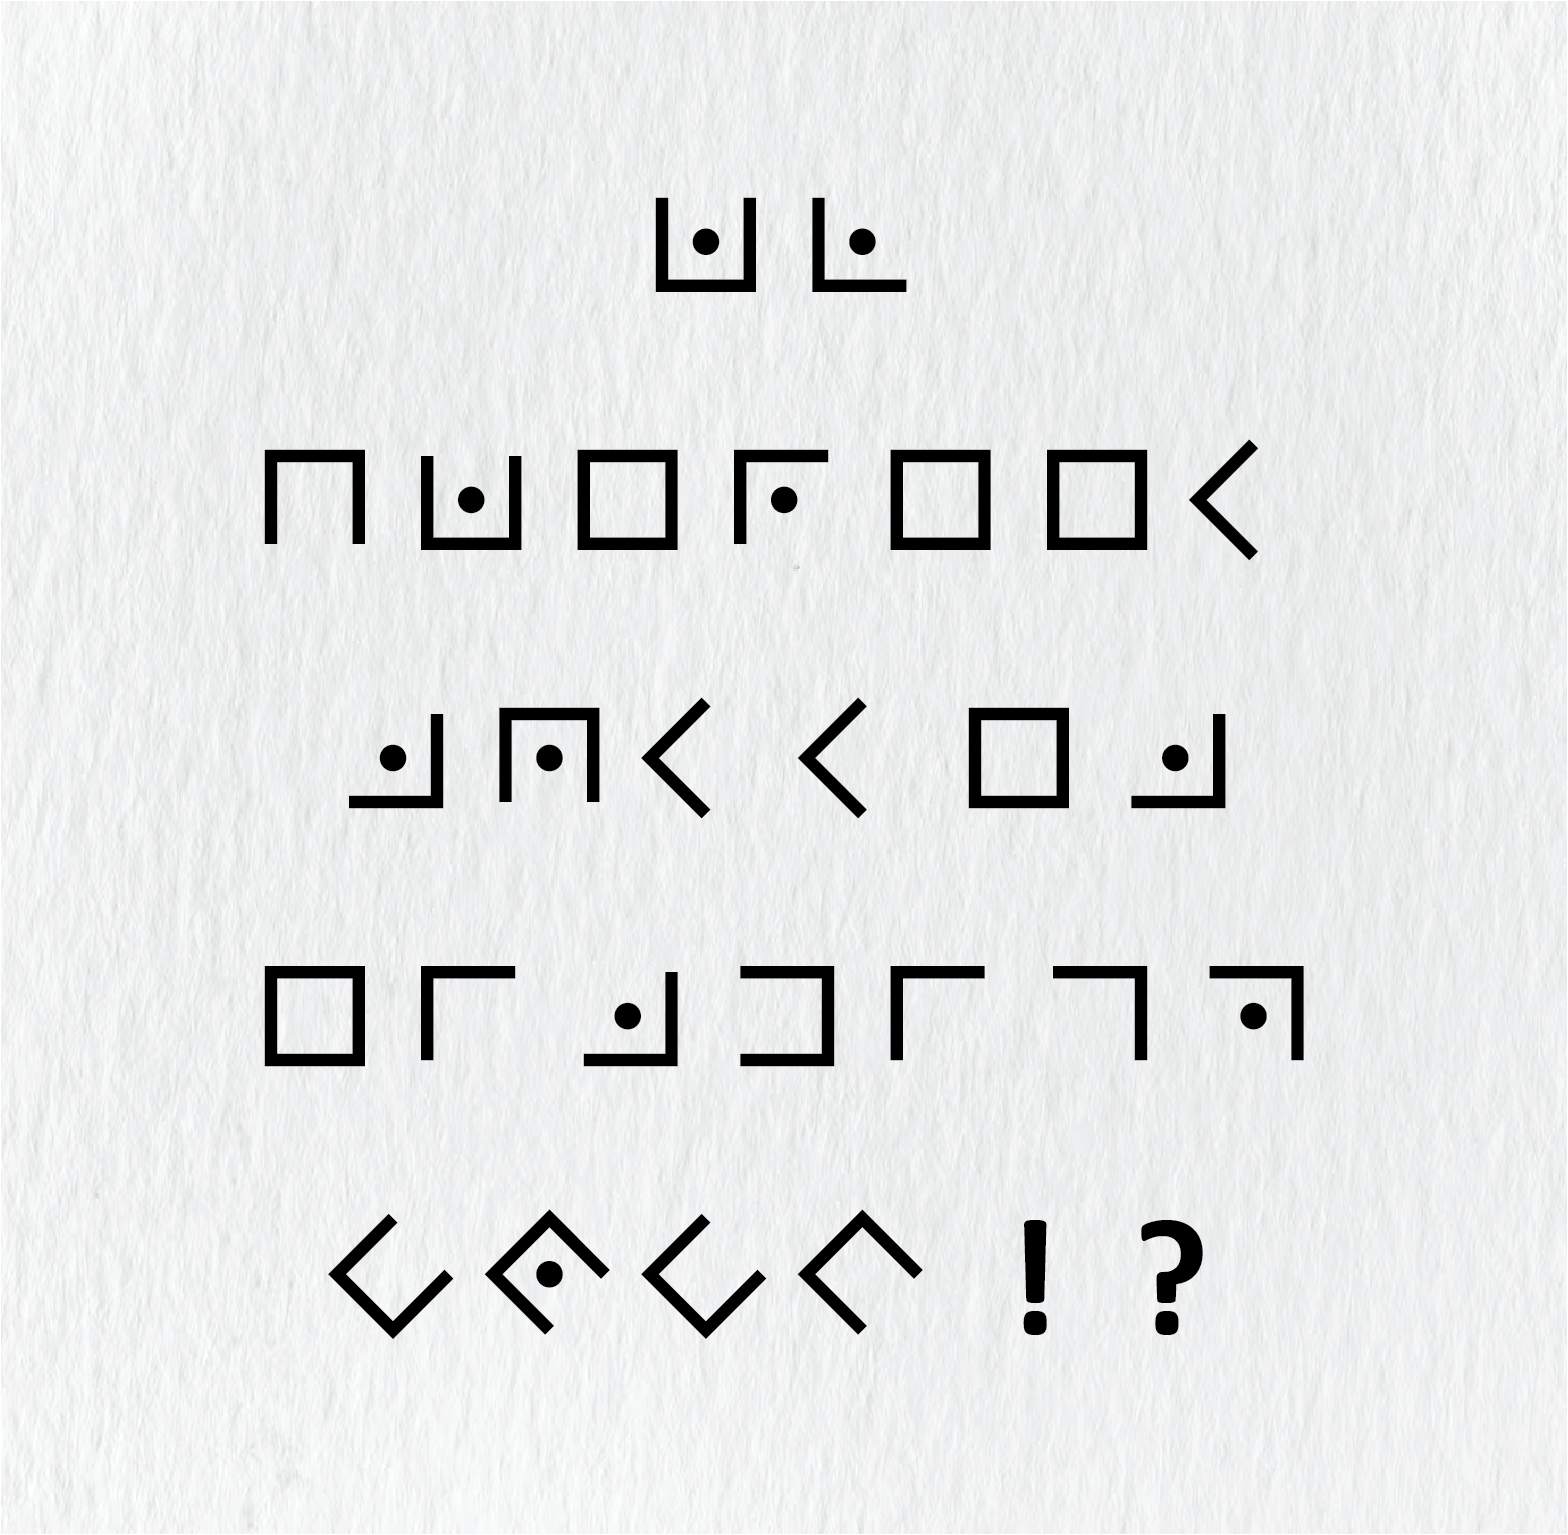
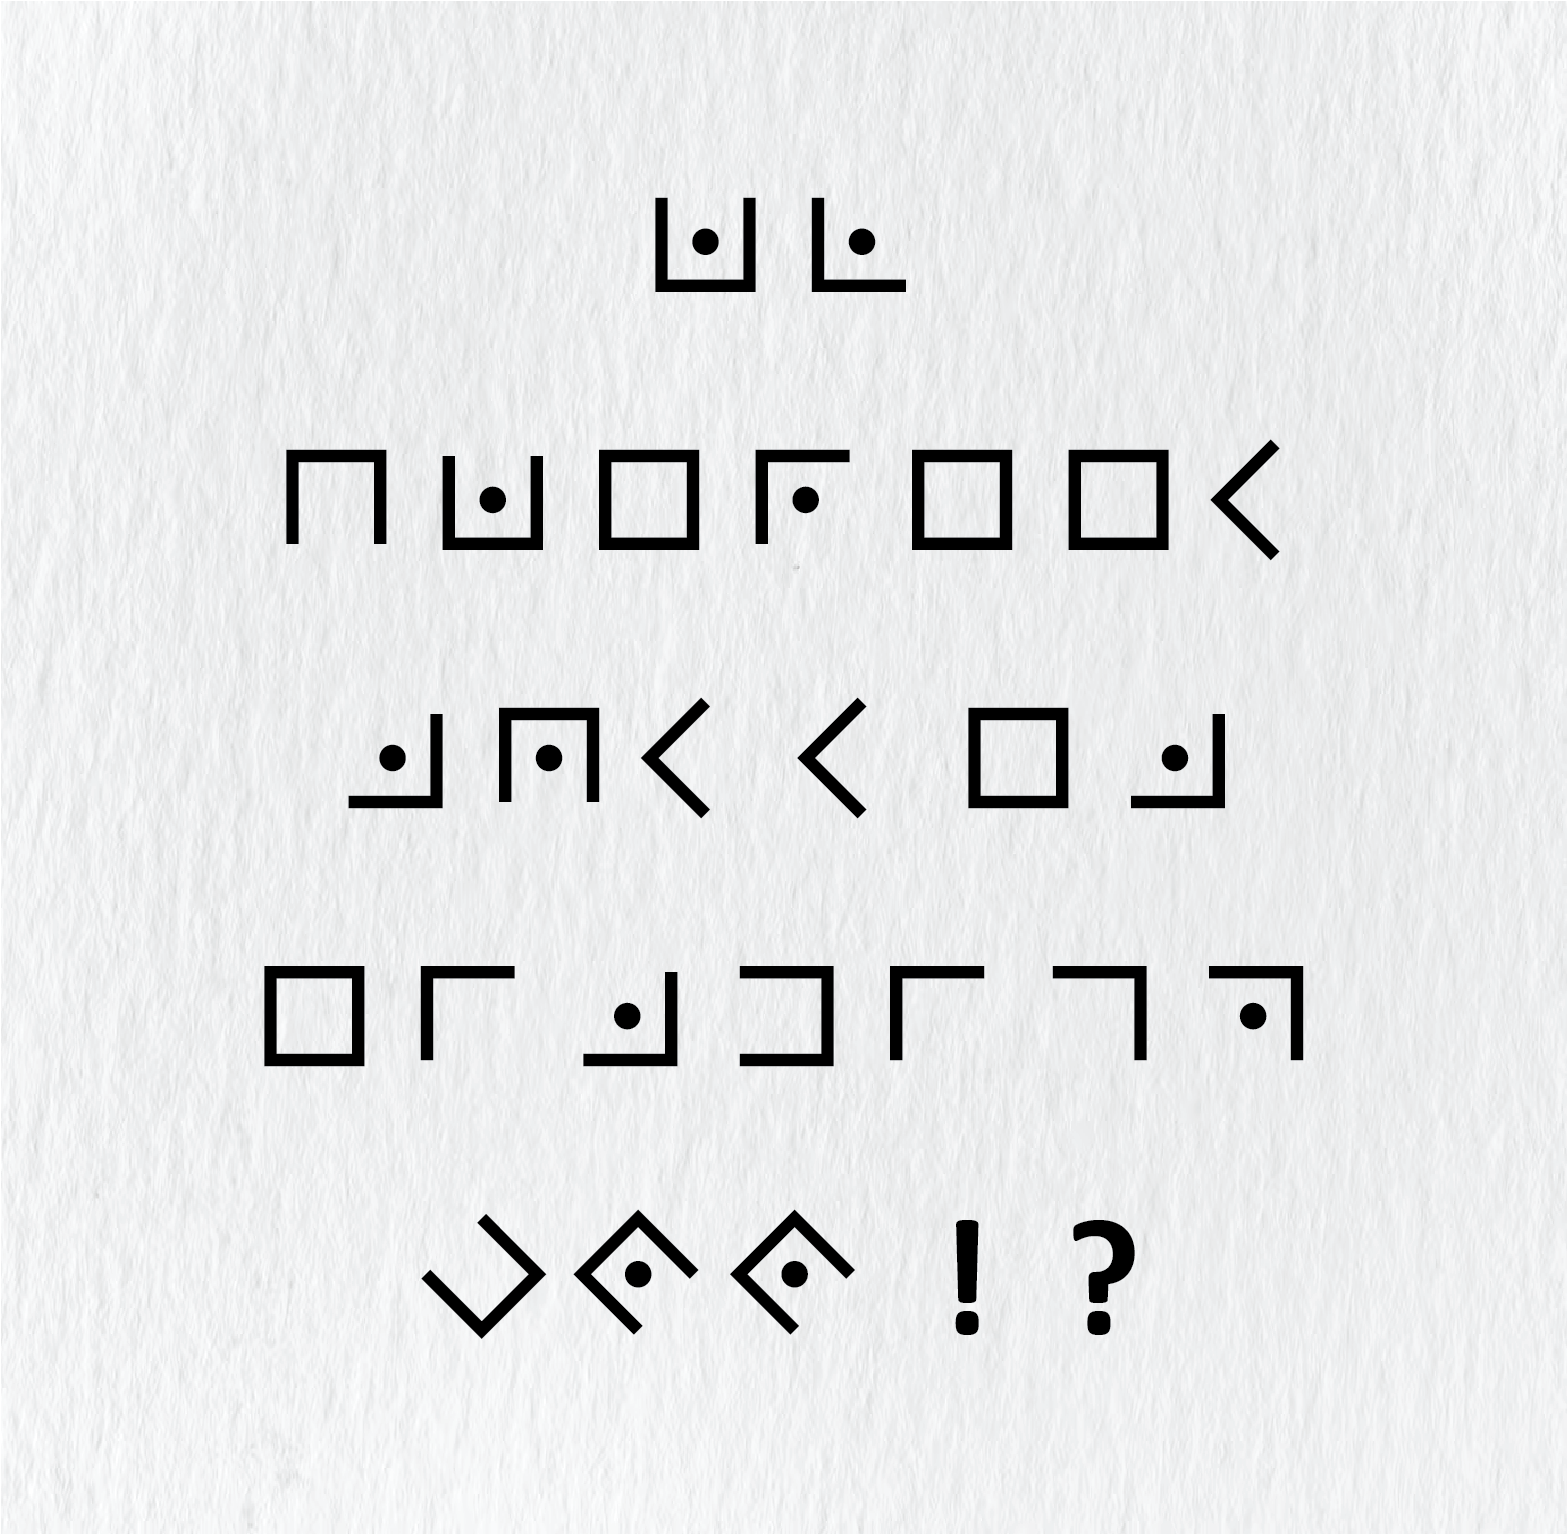
Adjust Dutch Interface to have 100! instead of 2025!

Changed region(s): [[0.2144, 0.7961, 0.7658, 0.8879], [0.1532, 0.2756, 0.5207, 0.3674], [0.5207, 0.2756, 0.8271, 0.3674]]

diff --git a/src/pages/Game/locations/Dutch/Action.jsx b/src/pages/Game/locations/Dutch/Action.jsx
@@ -47,9 +47,9 @@ export function Action(props) {
 			return <Line text="Je bekijkt het elektronische kastje">
 				{cases(numActionVisits, [0, 2, 3, Infinity], [
 					<>
-						<p>Je opent het kleine kastje met de kabels die eruit lopen. Deze keer zit er geen fancy touchscreen in, maar slechts een klein schermpje met vier vreemde tekens. Boven en onder het display staan knopjes.</p>
+						<p>Je opent het kleine kastje met de kabels die eruit lopen.</p>
 						<Image src={DutchInterface} />
-						<p>Je bekijkt de vreemde tekens op het scherm. Heb je die al ergens anders gezien?</p>
+						<p>Deze keer zit er geen fancy touchscreen in, maar slechts een klein schermpje met vier vreemde tekens. Boven en onder het display staan knopjes. Je bekijkt de vreemde tekens op het scherm. Heb je die al ergens anders gezien?</p>
 					</>,
 					<p>Je vraagt je af wat de vreemde figuren betekenen. Misschien kun je het op de een of andere manier ontcijferen?</p>,
 					<p>Inmiddels heb je een aardig idee van wat de vreemde figuren betekenen. Maar hoe weet je wat de juiste code is? Door welke cijfers moet een getal deelbaar zijn? En hoeveel keer kun je ze dan door die getallen delen?</p>,

diff --git a/src/pages/Game/locations/Dutch/Interface.jsx b/src/pages/Game/locations/Dutch/Interface.jsx
@@ -22,8 +22,7 @@ const height = 2 * margin + squareSize + 2 * arrowHeight + 2 * arrowGap
 const width = 2 * margin + 4 * squareSize + 3 * squareGap
 
 // Define the shapes and their initial positions.
-const solution = [0, 5, 0, 5]
-
+const solution = [0, 0, 2, 4]
 
 // Set up the initial value. Make sure all digits are different, so it can never be correct.
 const getInitialValue = () => {
